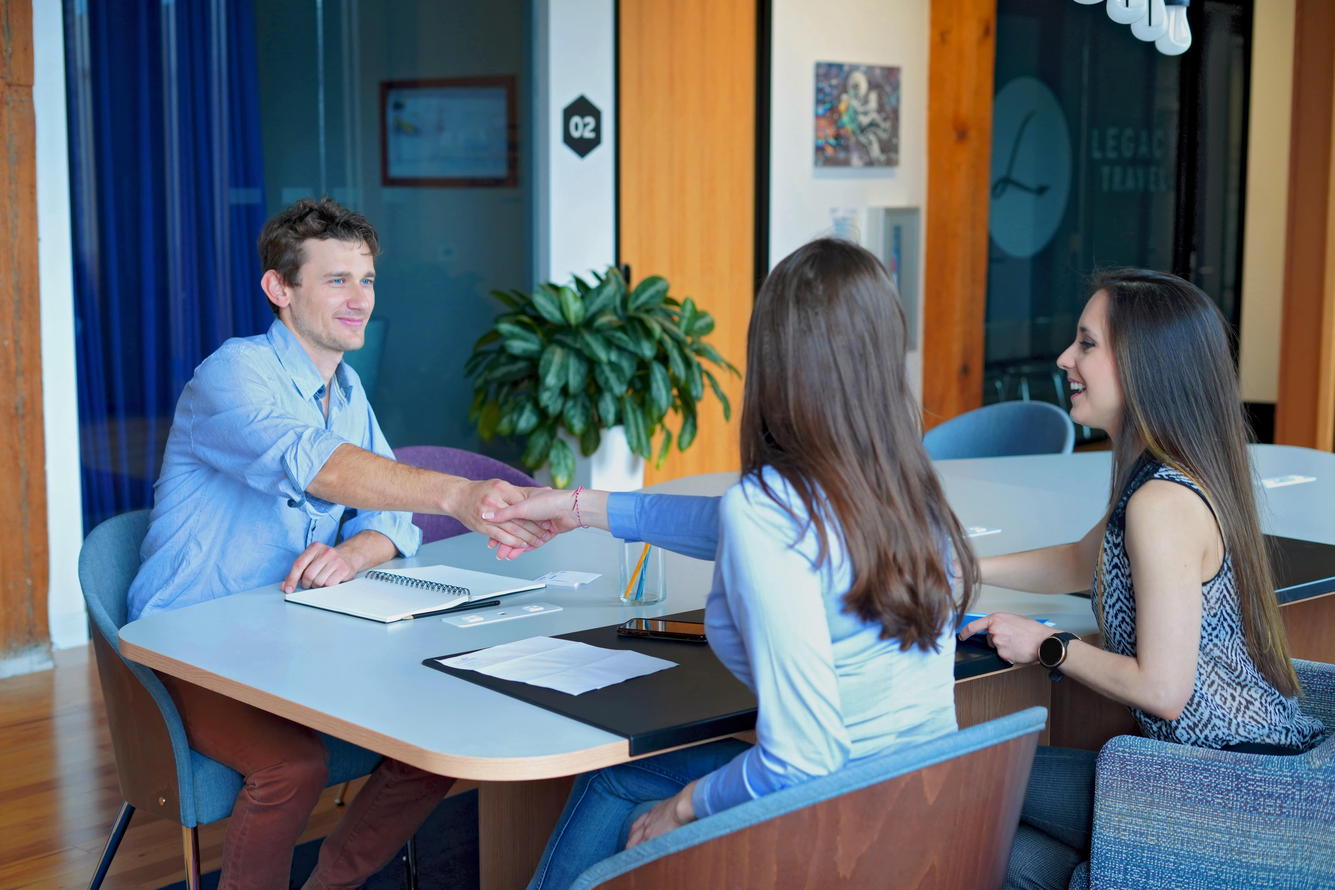
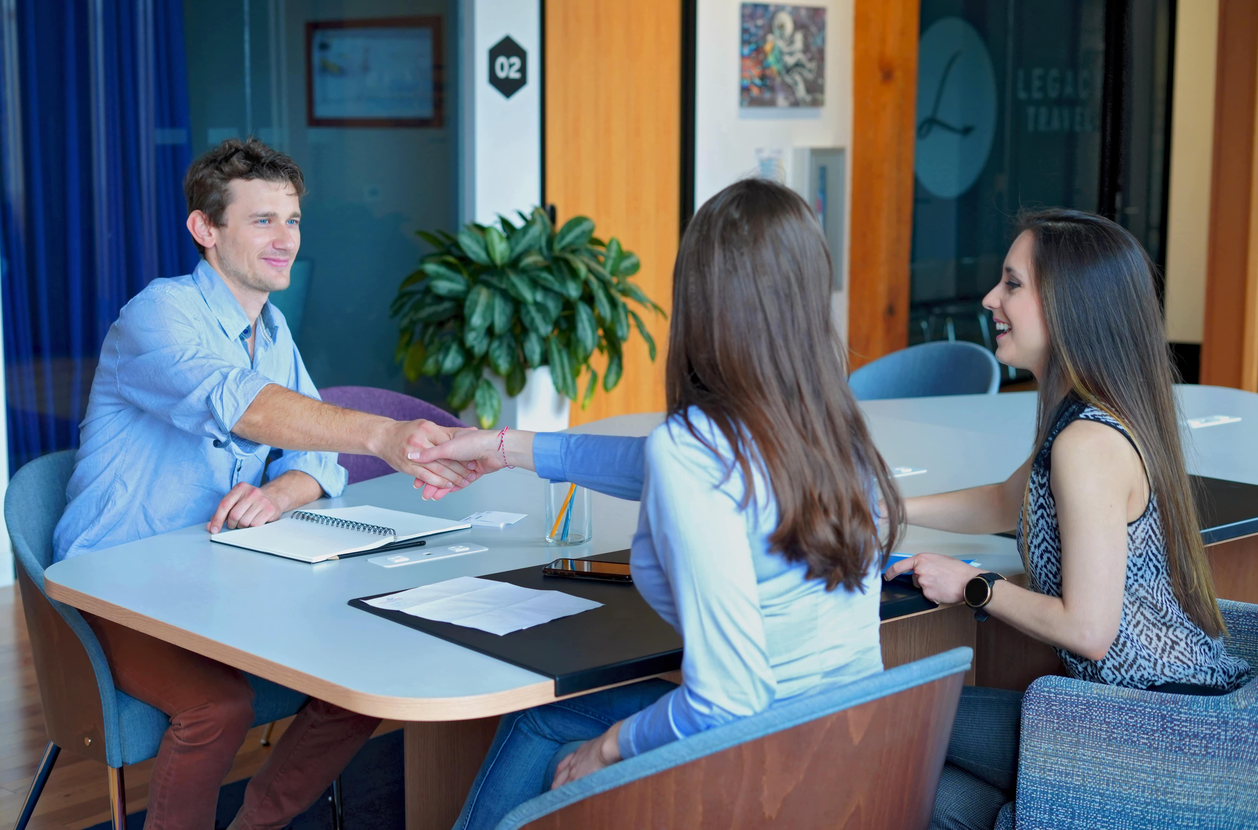
New photos.

diff --git a/styles.css b/styles.css
@@ -295,6 +295,7 @@ h2
     width: 100%;
     text-align: center;
     transition: background .3s;
+    text-align: left;
 }
 
 #navbar .dropdown-menu li:hover {
@@ -1676,7 +1677,7 @@ h2
     top: 90px;
     justify-content: center;
     z-index: 0;
-    background-image: url(media/interview_copy.jpg);
+    background-image: url(media/interview.jpg);
     background-position: center -90px;
     background-size: cover;
     background-repeat: no-repeat;
@@ -2164,8 +2165,8 @@ h2
     top: 90px;
     justify-content: center;
     z-index: 0;
-    background-image: url(media/coaching.jpg);
-    background-position: center -90px;
+    background-image: url(media/coaching_us.jpg);
+    background-position: center -80px;
     background-size: cover;
     background-repeat: no-repeat;
 }
@@ -2216,39 +2217,39 @@ h2
 
 #coaching #what_happens:before {
     content: '';
-    background-image: url(media/pitch_decoration.svg);
+    background-image: url(media/message.svg);
     background-size: 100% 100%;
     background-position: center center;
     background-repeat: no-repeat;
     opacity: 0.45;
     position: absolute;
-    width: 24rem;
+    width: 15rem;
     left: 2%;
-    top: 10%;
-    height: 25rem;
-    /*transform: rotateY(180deg);*/
+    top: 15%;
+    height: 18rem;
+    transform: rotateY(180deg);
     z-index: -1;
 }
 
 #coaching #what_happens:after {
     content: '';
-    background-image: url(media/pitch_decoration.svg);
+    background-image: url(media/message.svg);
     background-size: 100% 100%;
     background-position: center center;
     background-repeat: no-repeat;
     opacity: 0.45;
     position: absolute;
-    width: 24rem;
+    width: 15rem;
     right: 2%;
-    bottom: 0;
-    height: 25rem;
+    bottom: 10%;
+    height: 18rem;
     z-index: -1;
 }
 
 #coaching #what_happens .wrapper {
     max-width: 700px;
     width: 100%;
-    margin: 60px auto 40px;
+    margin: 60px auto 60px;
     padding: 0 25px;
     box-sizing: border-box;
 }
@@ -2305,7 +2306,7 @@ h2
 }
 
 #coaching #what_happens p.arrowed {
-    padding: 5px 0 5px 25px;
+    padding: 5px 0 15px 25px;
     margin-bottom: 0;
 }
 

diff --git a/styles.small.css b/styles.small.css
@@ -371,14 +371,15 @@ a.button
 }
 
 #coaching #what_happens:before {
-    left: -6%;
-    width: 23rem;
+    left: -7%;
+    width: 17rem;
 }
 
 
 #coaching #what_happens:after {
-    right: -6%;
-    width: 23rem;
+    right: 0;
+    width: 14rem;
+    bottom: 35%;
 }
 
 #coaching #what_happens h3 {
@@ -391,8 +392,8 @@ a.button
 }
 
 #coaching #what_happens .our_benefits .col {
-    width: 75%;
-    margin-bottom: 20px;
+    width: 85%;
+    margin-bottom: 70px;
 }
 
 #coaching #you_will_get .col {
@@ -403,9 +404,13 @@ a.button
     width: 70%;
 }
 
+#coaching #what_happens p.arrowed {
+    padding: 5px 0 8px 25px;
+}
+
 @media all and (max-width: 668px) {
     #coaching #intro .banner {
-        background-position: -470px -90px;
+        background-position: -200px -90px;
     }
 
     #coaching #intro .layer #intro_box {
@@ -417,17 +422,15 @@ a.button
     }
 
     #coaching #what_happens:before {
-        left: -10%;
-        width: 14rem;
-        height: 14rem;
-        top: 20%;
+        left: -7%;
+        width: 10rem;
+        top: 26%;
     }
 
     #coaching #what_happens:after {
-        right: -10%;
-        width: 15rem;
-        bottom: 10%;
-        height: 15rem;
+        right: -9%;
+        width: 12rem;
+        bottom: 24%;
     }
 
     #coaching #what_happens .our_benefits {
@@ -448,6 +451,24 @@ a.button
 
     #coaching #you_will_get .col img {
         margin: 0 0 5px;
+    }
+
+    #coaching #you_will_get {
+        margin: 0 0 50px;
+    }
+}
+
+@media all and (max-width: 400px) {
+    #coaching #what_happens:before {
+        left: -7%;
+        width: 10rem;
+        top: 26%;
+    }
+
+    #coaching #what_happens:after {
+        right: -9%;
+        width: 12rem;
+        bottom: 20%;
     }
 }
 

diff --git a/pages/coaching/index.html b/pages/coaching/index.html
@@ -215,7 +215,7 @@
 
 <div id="request_simulation">
     <div class="wrapper">
-        <h2>Request more information</h2>
+        <h2>Request More Information</h2>
 
         <a class="button trigger-modal">Now</a>
 
